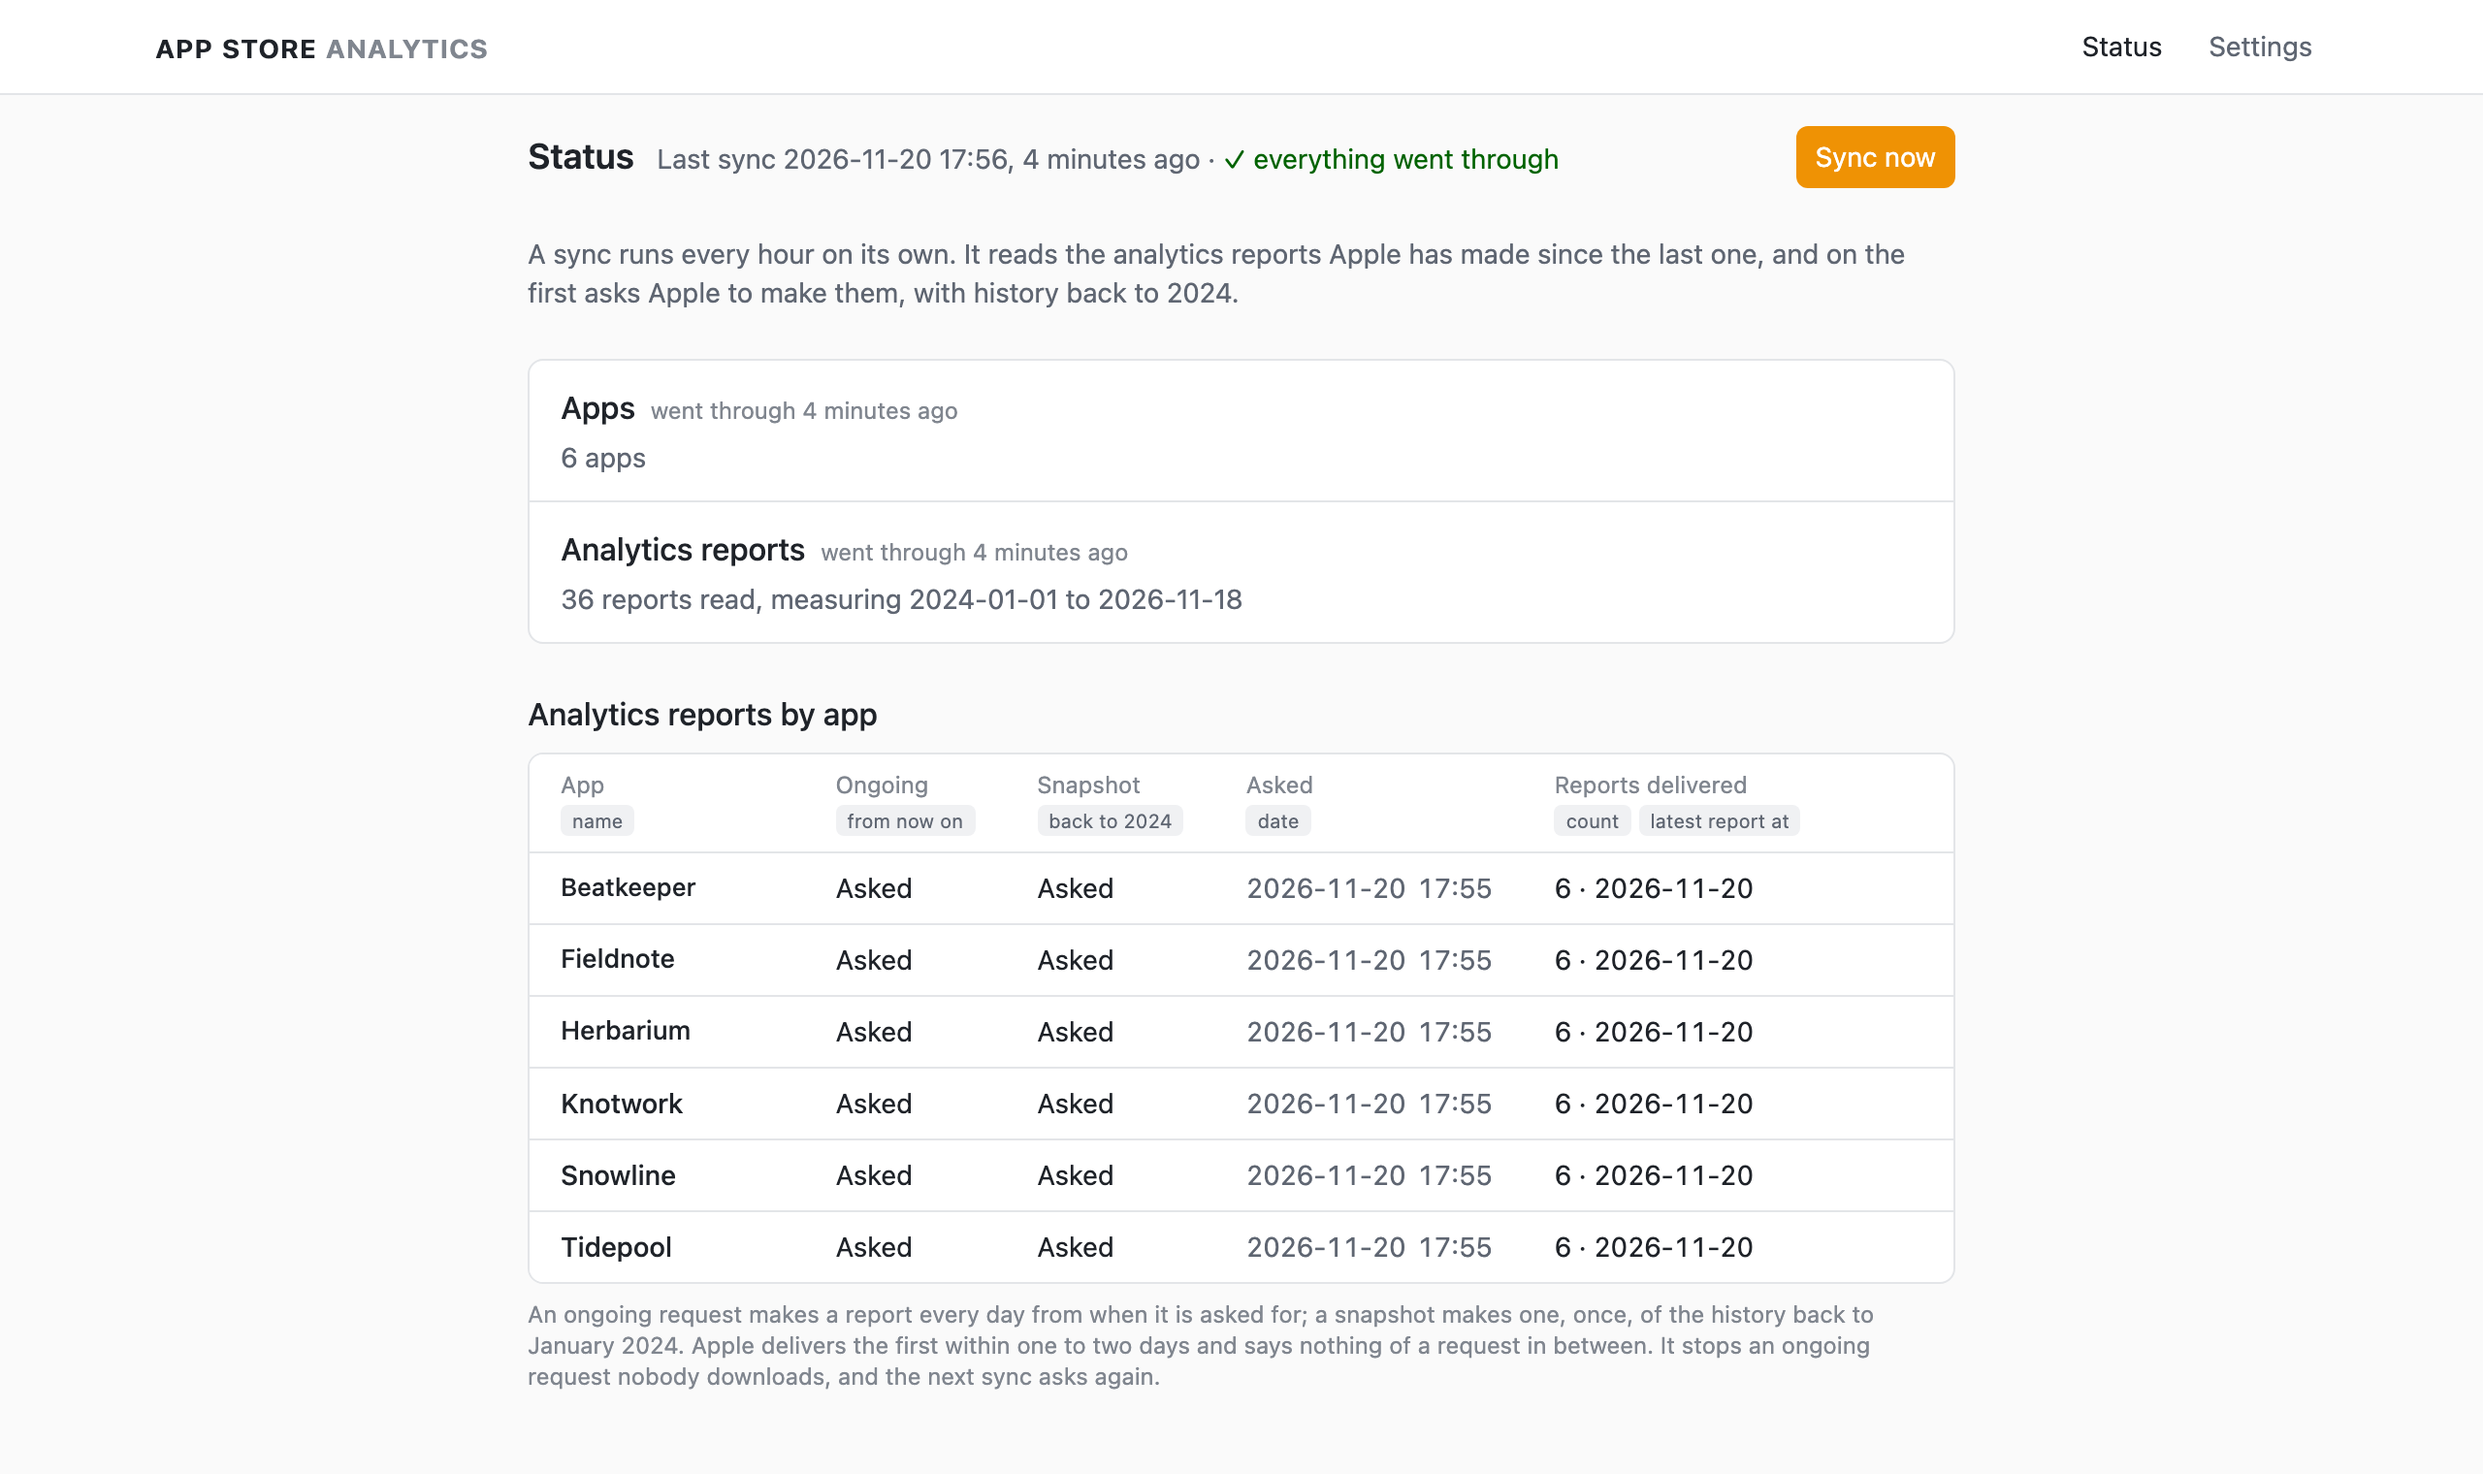
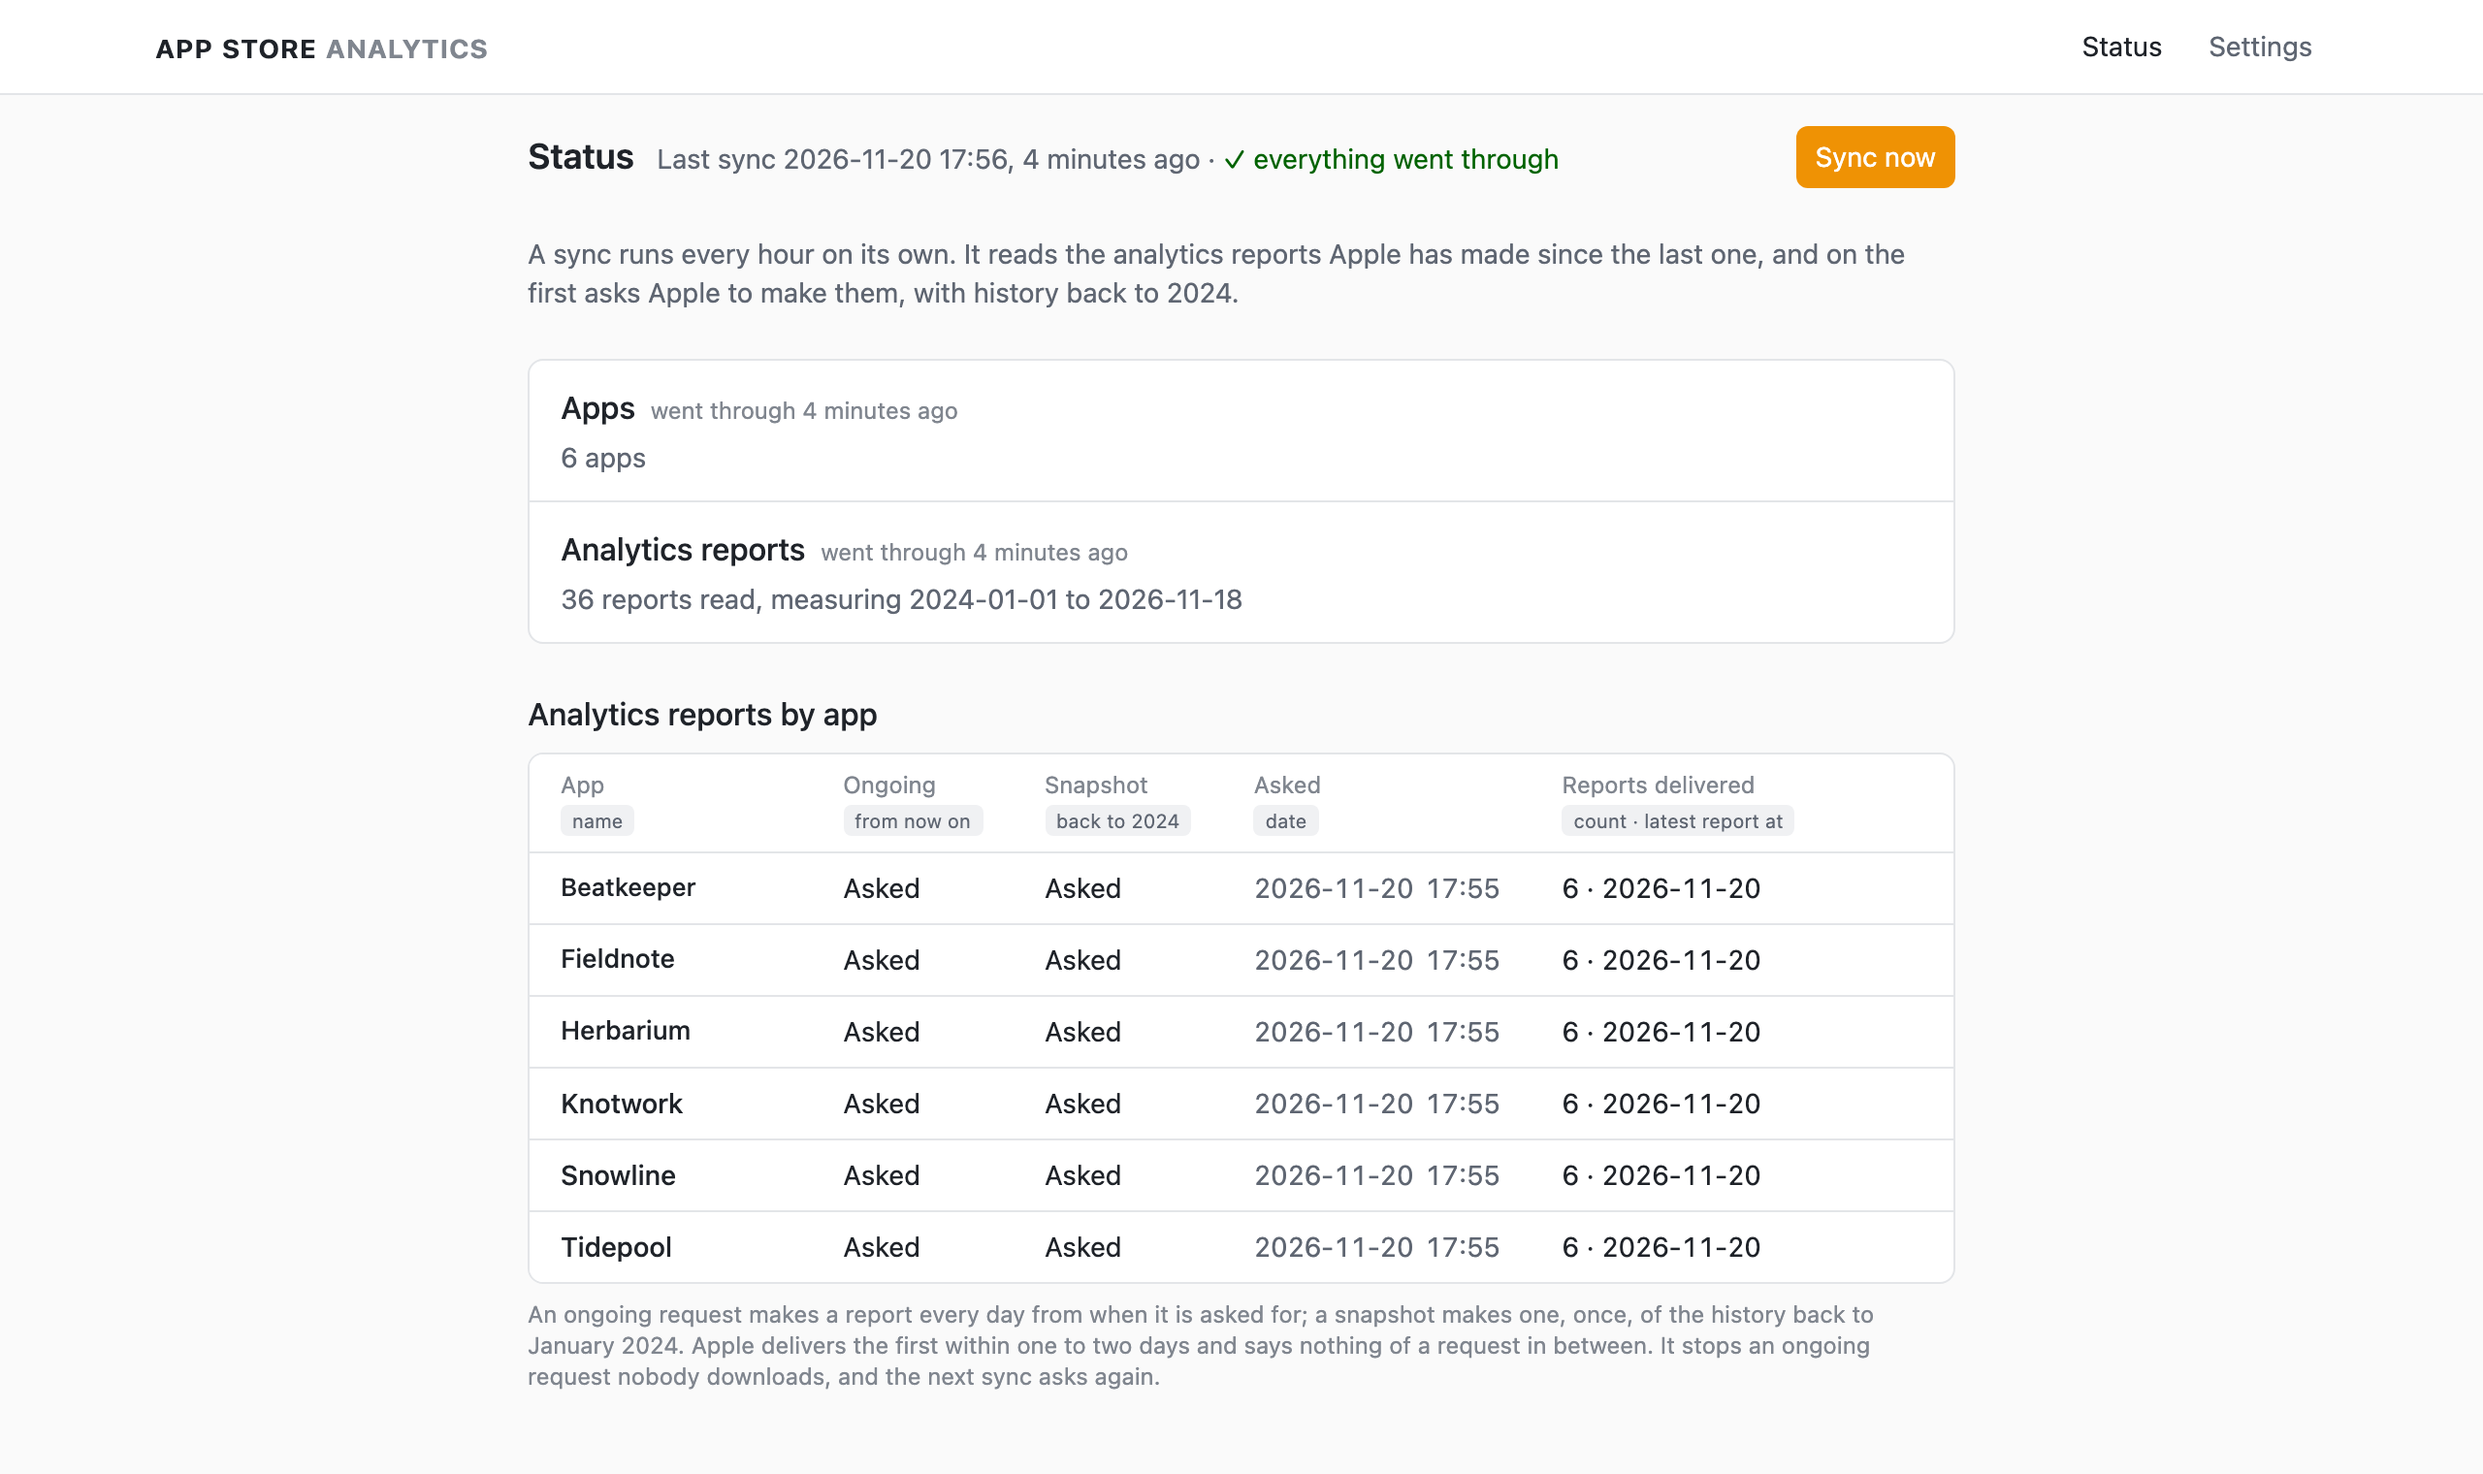
A column's parts on the status page are one badge, joined with a bullet as its cells join them

diff --git a/web/src/islands/app/Status.tsx b/web/src/islands/app/Status.tsx
@@ -274,19 +274,15 @@ function Name({ children }: { children: string }) {
 
 /**
  * What a column holds, part by part as its cells say it, or what a kind of request covers, under
- * its header: small badges, so the cells need not say it on every row.
+ * its header: a small badge, so the cells need not say it on every row. Its parts in one, joined
+ * as a cell joins them, so they read as the one piece of data they are.
  */
 function Badges({ of }: { of: string[] }) {
   return (
-    <span className="mt-0.5 flex gap-1">
-      {of.map((b) => (
-        <span
-          key={b}
-          className="rounded bg-fill px-1.5 text-[10px] leading-4 text-muted"
-        >
-          {b}
-        </span>
-      ))}
+    <span className="mt-0.5 flex">
+      <span className="rounded bg-fill px-1.5 text-[10px] leading-4 text-muted">
+        {of.join(" · ")}
+      </span>
     </span>
   );
 }
